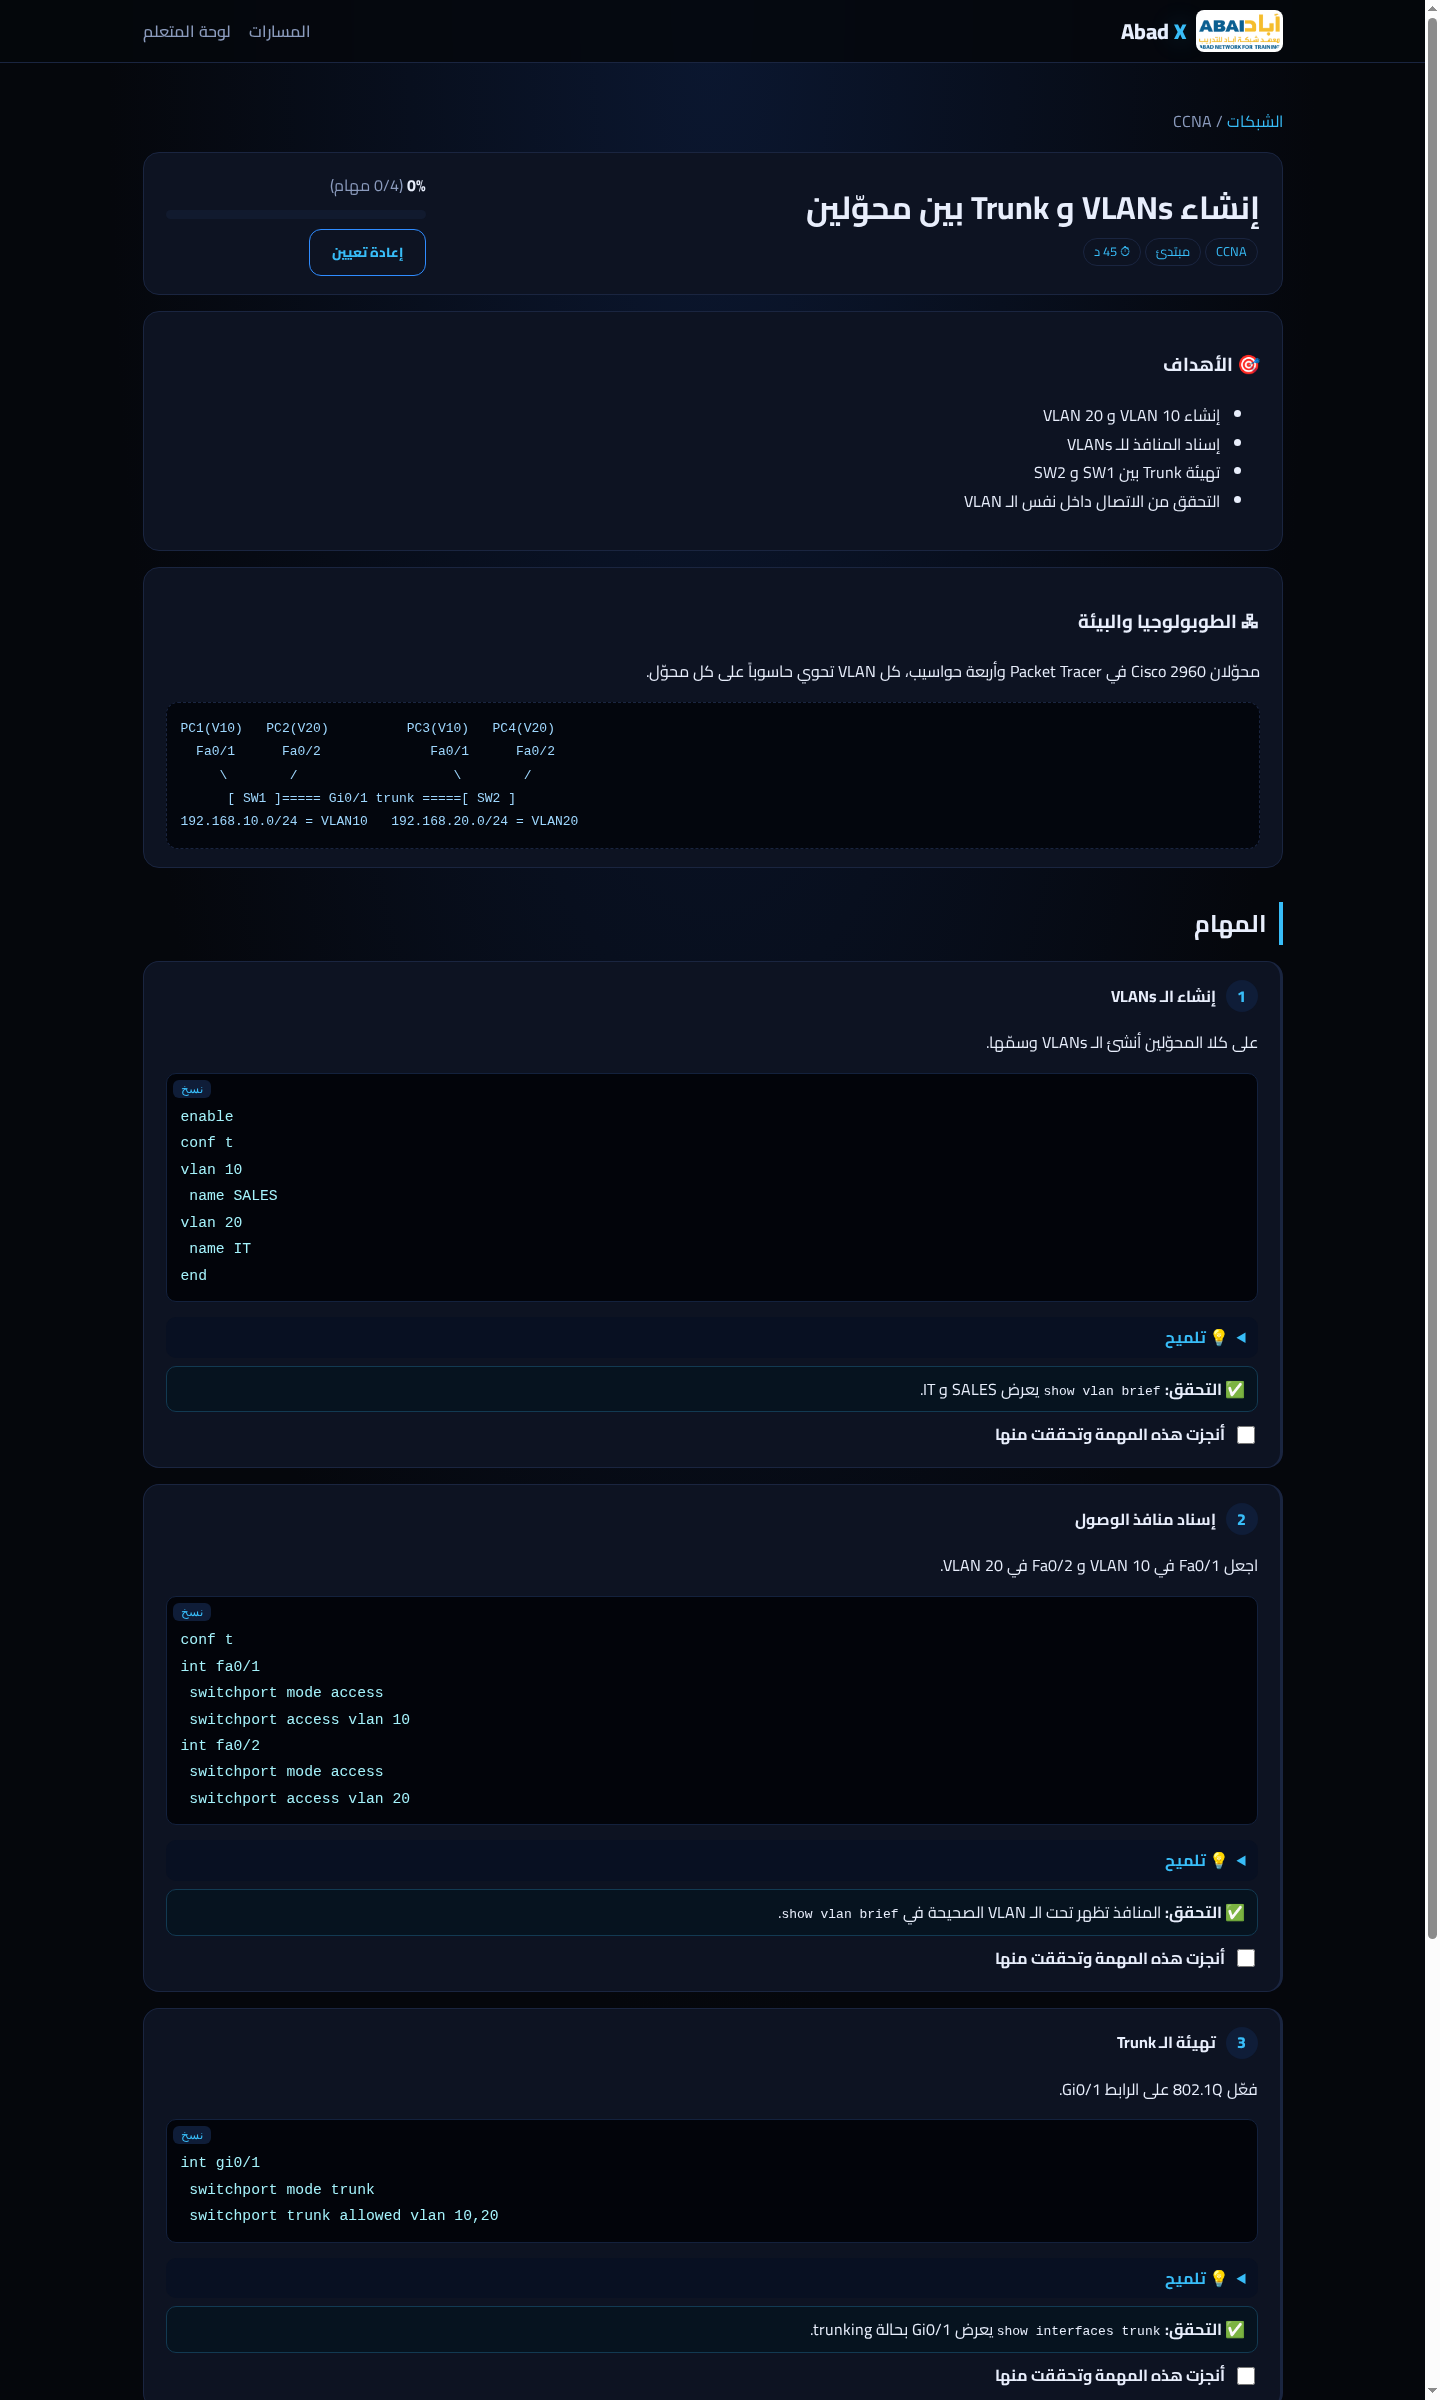
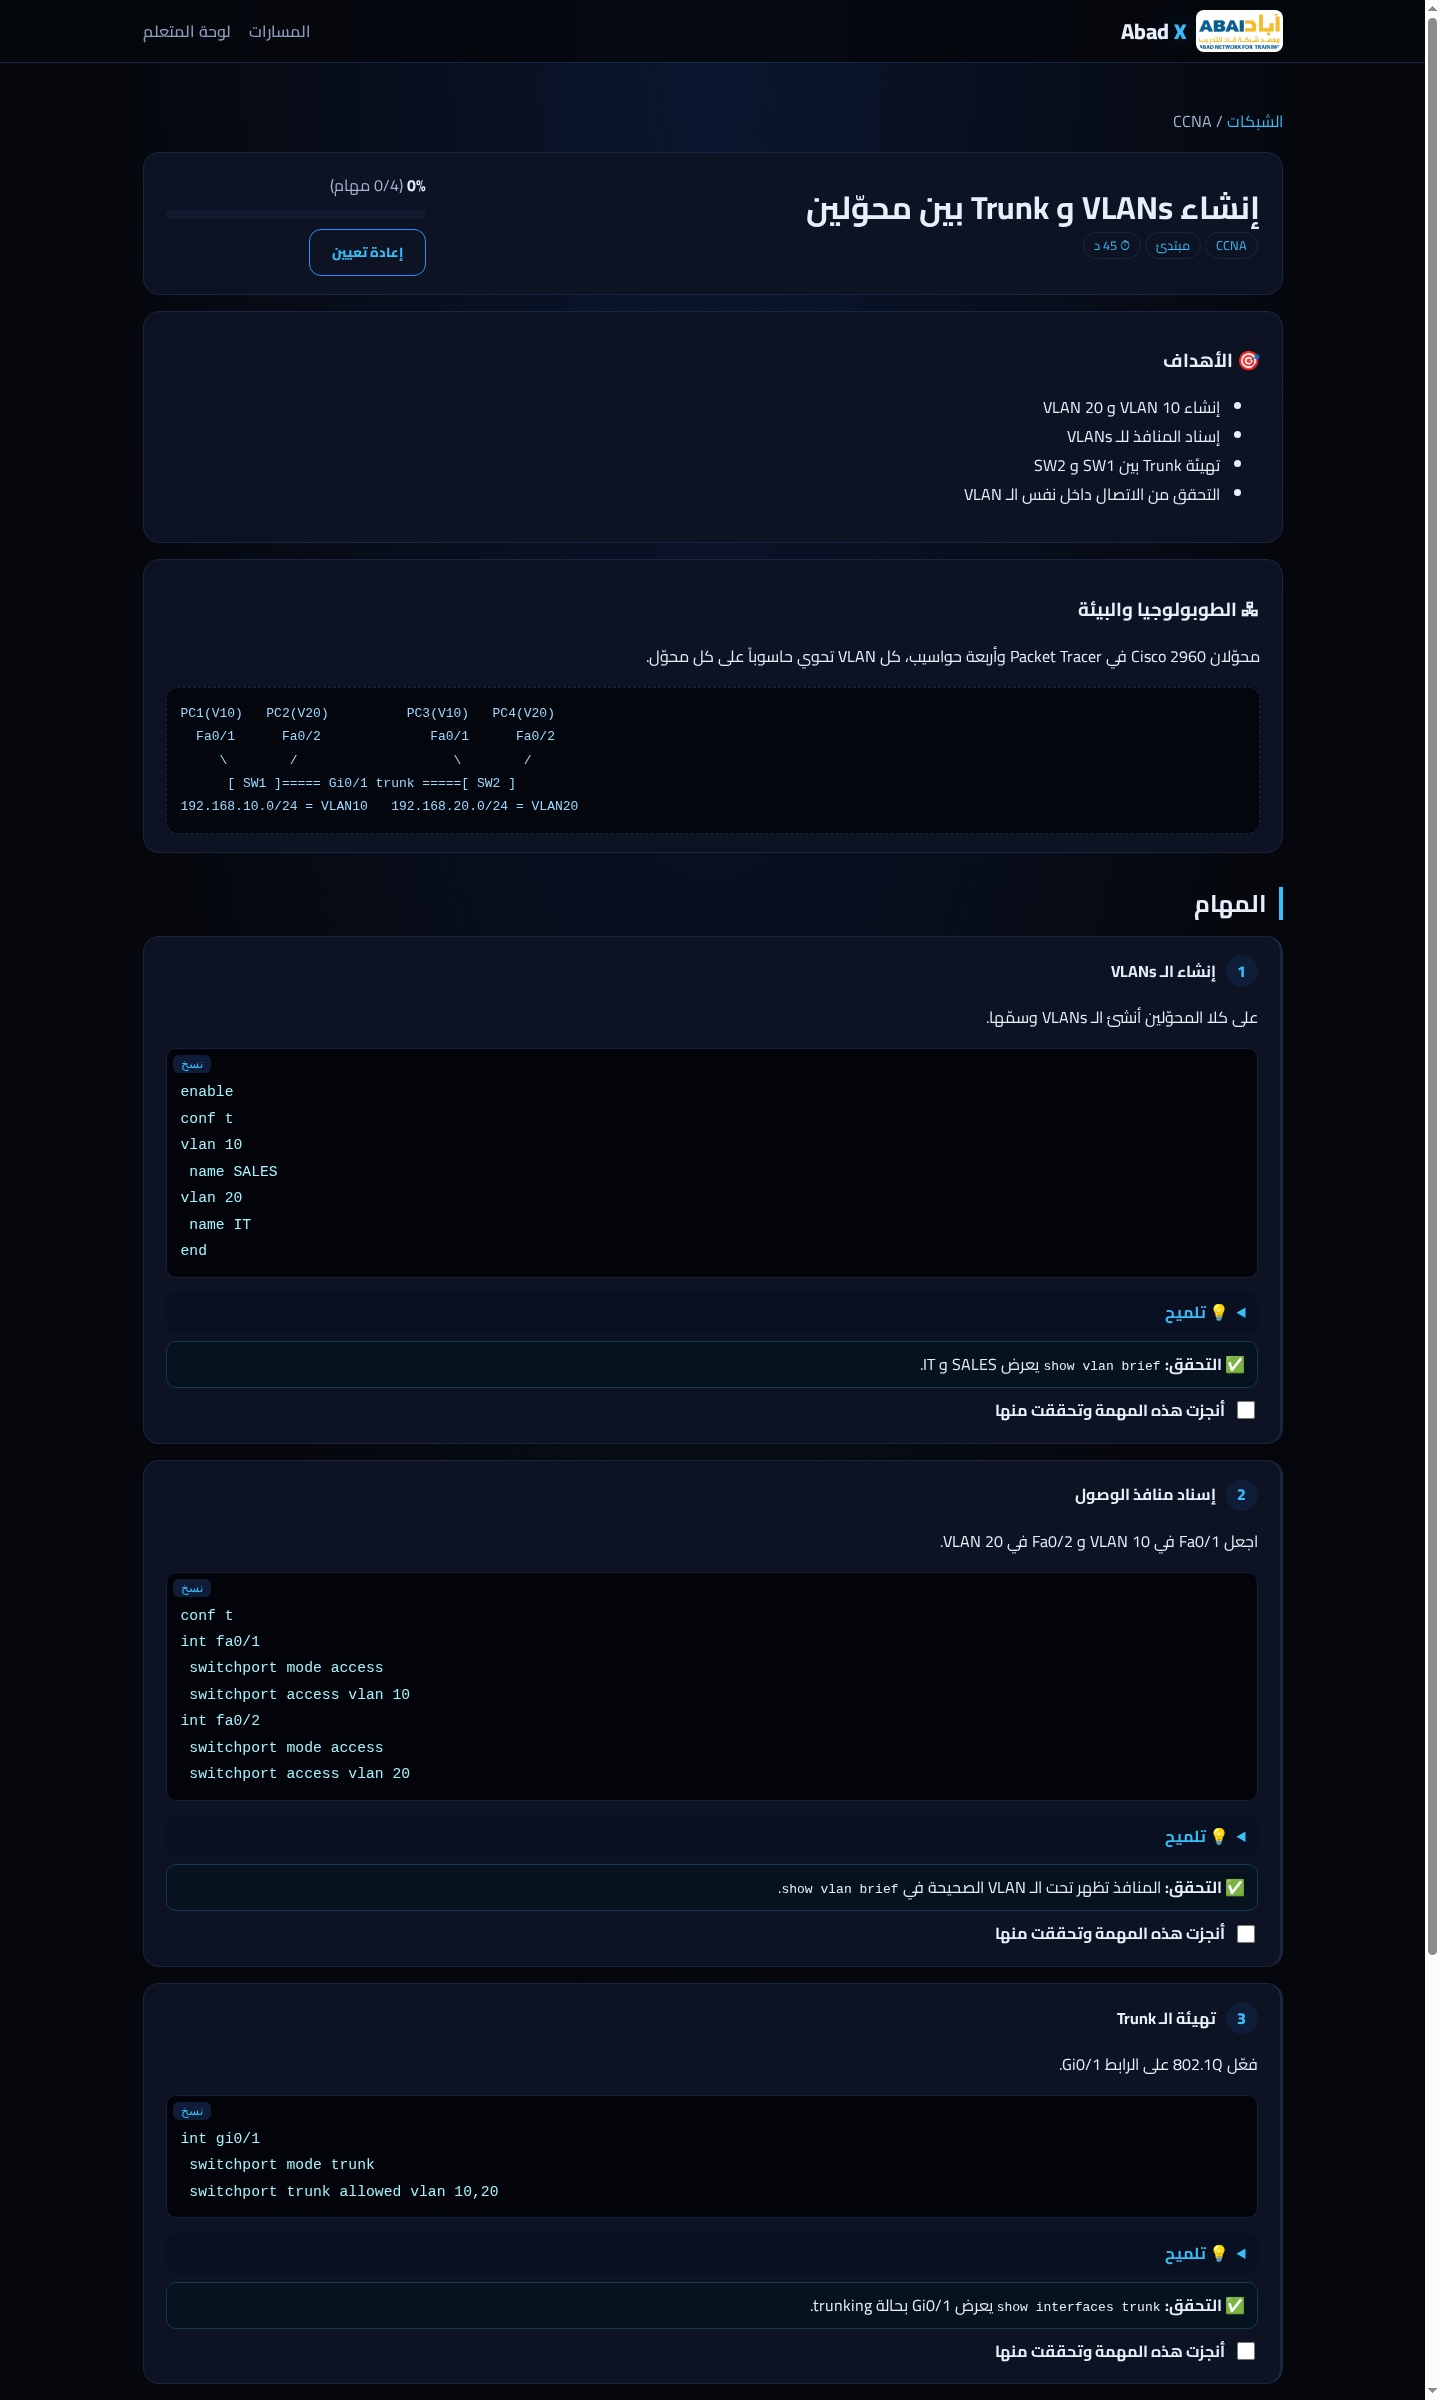
UX pass: a11y, focus, toasts, empty states, mobile, reduced motion

diff --git a/assets/app.js b/assets/app.js
@@ -3,22 +3,23 @@ const getP=()=>JSON.parse(localStorage.getItem(LS)||'{}');
 const setP=p=>localStorage.setItem(LS,JSON.stringify(p));
 const labPct=l=>{const d=(getP()[l.id]||[]).length;return Math.round(100*d/l.tasks.length)};
 const trackPct=t=>{const ls=LABS.filter(l=>l.track===t.id);return ls.length?Math.round(ls.reduce((a,l)=>a+labPct(l),0)/ls.length):0};
-const bar=p=>`<div class="bar"><i style="width:${p}%"></i></div>`;
+const bar=p=>`<div class="bar" role="progressbar" aria-valuemin="0" aria-valuemax="100" aria-valuenow="${p}"><i style="width:${p}%"></i></div>`;
 const esc=s=>s.replace(/&/g,'&amp;').replace(/</g,'&lt;');
-function shell(){document.body.insertAdjacentHTML('afterbegin',`<header><div class="nav"><a class="brand" href="index.html"><img src="assets/abad-logo.png" alt="ABAD"><span>Abad <b>X</b></span></a><span class="sp"></span><a class="l" href="index.html">المسارات</a><a class="l" href="dashboard.html">لوحة المتعلم</a></div></header>`);
+function toast(m,k='ok'){let t=document.querySelector('.toast');if(!t){t=document.createElement('div');t.className='toast';t.setAttribute('role','status');t.setAttribute('aria-live','polite');document.body.append(t)}t.textContent=m;t.className='toast show '+k;clearTimeout(t._h);t._h=setTimeout(()=>t.classList.remove('show'),2200)}
+function shell(){document.querySelector('main').id='main';document.body.insertAdjacentHTML('afterbegin','<a class="skip" href="#main">تخطَّ إلى المحتوى</a>');document.body.insertAdjacentHTML('afterbegin',`<header role="banner"><nav class="nav" aria-label="التنقل الرئيسي"><a class="brand" href="index.html"><img src="assets/abad-logo.png" alt="ABAD"><span>Abad <b>X</b></span></a><span class="sp"></span><a class="l" href="index.html">المسارات</a><a class="l" href="dashboard.html">لوحة المتعلم</a></nav></header>`);
 document.body.insertAdjacentHTML('beforeend',`<footer>Abad X — منصة المعامل التطبيقية · معهد شبكة آباد للتدريب، الرياض © 2026</footer>`)}
 function home(){const m=document.querySelector('main');m.innerHTML=`<section class="hero"><h1>معامل <span>Abad X</span> التطبيقية</h1><p>منصة تعلّم ذاتي بمعامل عملية خطوة بخطوة في الشبكات، لينكس، الأمن السيبراني، والسحابة والخوادم — من معهد شبكة آباد للتدريب.</p><a class="btn" href="#tracks">ابدأ التعلم</a> <a class="btn ghost" href="dashboard.html">تقدّمي</a></section><h2 class="sec" id="tracks">المسارات التعليمية</h2><div class="grid">${TRACKS.map(t=>`<a class="card" href="track.html?t=${t.id}" style="color:inherit"><div class="ico">${t.icon}</div><h3>${t.name}</h3><p class="mut">${t.desc}</p>${t.certs.map(c=>`<span class="tag">${c}</span>`).join('')}<p class="mut">${LABS.filter(l=>l.track===t.id).length} معامل · ${trackPct(t)}%</p>${bar(trackPct(t))}</a>`).join('')}</div>`}
 function track(){const t=TRACKS.find(x=>x.id===new URLSearchParams(location.search).get('t'))||TRACKS[0];document.title=t.name+' | Abad X';
-document.querySelector('main').innerHTML=`<section class="hero"><div class="ico">${t.icon}</div><h1>${t.name}</h1><p>${t.desc}</p>${t.certs.map(c=>`<span class="tag">${c}</span>`).join('')}${bar(trackPct(t))}</section><div class="grid">${LABS.filter(l=>l.track===t.id).map(l=>`<a class="card" href="lab.html?id=${l.id}" style="color:inherit"><span class="tag">${l.cert}</span><span class="tag">${l.level}</span><span class="tag">⏱ ${l.time}</span><h3>${l.title}</h3><p class="mut">${l.summary}</p>${bar(labPct(l))}<span class="mut">${labPct(l)}% مكتمل</span></a>`).join('')}</div>`}
+document.querySelector('main').innerHTML=`<section class="hero"><div class="ico">${t.icon}</div><h1>${t.name}</h1><p>${t.desc}</p>${t.certs.map(c=>`<span class="tag">${c}</span>`).join('')}${bar(trackPct(t))}</section>${LABS.some(l=>l.track===t.id)?'':'<div class="empty">لا توجد معامل في هذا المسار بعد — قريباً.</div>'}<div class="grid">${LABS.filter(l=>l.track===t.id).map(l=>`<a class="card" href="lab.html?id=${l.id}" style="color:inherit"><span class="tag">${l.cert}</span><span class="tag">${l.level}</span><span class="tag">⏱ ${l.time}</span><h3>${l.title}</h3><p class="mut">${l.summary}</p>${bar(labPct(l))}<span class="mut">${labPct(l)}% مكتمل</span></a>`).join('')}</div>`}
 function lab(){const l=LABS.find(x=>x.id===new URLSearchParams(location.search).get('id'))||LABS[0];const t=TRACKS.find(x=>x.id===l.track);document.title=l.title+' | Abad X';
 const m=document.querySelector('main');
 const render=()=>{const done=getP()[l.id]||[];m.innerHTML=`<p class="mut"><a href="track.html?t=${t.id}">${t.name}</a> / ${l.cert}</p><div class="box lab-head"><div><h1 style="margin:0">${l.title}</h1><span class="tag">${l.cert}</span><span class="tag">${l.level}</span><span class="tag">⏱ ${l.time}</span></div><div style="min-width:260px"><b id="pct">${labPct(l)}%</b> <span class="mut">(${done.length}/${l.tasks.length} مهام)</span>${bar(labPct(l))}<button class="btn ghost" id="reset">إعادة تعيين</button></div></div>
 <div class="box"><h3>🎯 الأهداف</h3><ul>${l.objectives.map(o=>`<li>${o}</li>`).join('')}</ul></div>
 <div class="box"><h3>🖧 الطوبولوجيا والبيئة</h3><p>${l.env}</p><div class="topo">${esc(l.topo)}</div></div>
-<h2 class="sec">المهام</h2>${l.tasks.map((k,i)=>`<div class="box task ${done.includes(i)?'done':''}"><h4><span class="num">${i+1}</span>${k.t}</h4><p>${k.d}</p><pre class="cmd"><button class="copy">نسخ</button>${esc(k.c)}</pre><details><summary>💡 تلميح</summary>${k.h}</details><div class="verify"><b>✅ التحقق:</b> ${k.v}</div><label class="chk"><input type="checkbox" data-i="${i}" ${done.includes(i)?'checked':''}> أنجزت هذه المهمة وتحققت منها</label></div>`).join('')}
+<h2 class="sec">المهام</h2>${l.tasks.map((k,i)=>`<div class="box task ${done.includes(i)?'done':''}"><h4><span class="num">${i+1}</span>${k.t}</h4><p>${k.d}</p><pre class="cmd"><button class="copy" aria-label="نسخ الأوامر">نسخ</button>${esc(k.c)}</pre><details><summary>💡 تلميح</summary>${k.h}</details><div class="verify"><b>✅ التحقق:</b> ${k.v}</div><label class="chk"><input type="checkbox" data-i="${i}" ${done.includes(i)?'checked':''}> أنجزت هذه المهمة وتحققت منها</label></div>`).join('')}
 ${labPct(l)===100?'<div class="box" style="border-color:var(--neon);box-shadow:var(--glow)"><h3>🏆 أحسنت! أكملت المعمل</h3></div>':''}`;
-m.querySelectorAll('input[data-i]').forEach(c=>c.onchange=()=>{const p=getP(),s=new Set(p[l.id]||[]);c.checked?s.add(+c.dataset.i):s.delete(+c.dataset.i);p[l.id]=[...s];setP(p);render()});
-m.querySelectorAll('.copy').forEach(b=>b.onclick=()=>{navigator.clipboard?.writeText(b.parentElement.textContent.replace('نسخ','').trim());b.textContent='تم ✓'});
-document.getElementById('reset').onclick=()=>{const p=getP();delete p[l.id];setP(p);render()}};render()}
+m.querySelectorAll('input[data-i]').forEach(c=>c.onchange=()=>{const p=getP(),s=new Set(p[l.id]||[]);c.checked?s.add(+c.dataset.i):s.delete(+c.dataset.i);p[l.id]=[...s];setP(p);render();const n=labPct(l);toast(n===100?'🏆 أكملت المعمل بالكامل!':c.checked?`✓ تم حفظ التقدم (${n}%)`:'تم إلغاء إنجاز المهمة','ok');m.querySelector(`input[data-i="${c.dataset.i}"]`).focus()});
+m.querySelectorAll('.copy').forEach(b=>b.onclick=()=>{navigator.clipboard?.writeText(b.parentElement.textContent.replace('نسخ','').trim());b.textContent='تم ✓';toast('تم نسخ الأوامر');setTimeout(()=>b.textContent='نسخ',1500)});
+document.getElementById('reset').onclick=()=>{if(!confirm('إعادة تعيين تقدّم هذا المعمل؟'))return;toast('تمت إعادة التعيين','warn');const p=getP();delete p[l.id];setP(p);render()}};render()}
 function dash(){const all=LABS.length,comp=LABS.filter(l=>labPct(l)===100).length,tot=Math.round(LABS.reduce((a,l)=>a+labPct(l),0)/all);
-document.querySelector('main').innerHTML=`<section class="hero"><h1>لوحة <span>المتعلم</span></h1><p>تقدّمك محفوظ محلياً في هذا المتصفح.</p><div class="grid"><div class="card"><h3>${tot}%</h3><span class="mut">التقدم الكلي</span>${bar(tot)}</div><div class="card"><h3>${comp} / ${all}</h3><span class="mut">معامل مكتملة</span></div></div></section><div class="grid">${TRACKS.map(t=>`<div class="card"><h3>${t.icon} ${t.name}</h3>${bar(trackPct(t))}<table>${LABS.filter(l=>l.track===t.id).map(l=>`<tr><td><a href="lab.html?id=${l.id}">${l.title}</a></td><td>${labPct(l)}%</td></tr>`).join('')}</table></div>`).join('')}</div><p><button class="btn ghost" onclick="if(confirm('مسح كل التقدم؟')){localStorage.removeItem(LS);location.reload()}">مسح كل التقدم</button></p>`}
+document.querySelector('main').innerHTML=`<section class="hero"><h1>لوحة <span>المتعلم</span></h1><p>تقدّمك محفوظ محلياً في هذا المتصفح.</p>${tot===0?'<div class="empty" style="margin:16px 0">لم تبدأ أي معمل بعد. <a href="index.html#tracks">اختر مساراً وابدأ أول معمل ←</a></div>':''}<div class="grid"><div class="card"><h3>${tot}%</h3><span class="mut">التقدم الكلي</span>${bar(tot)}</div><div class="card"><h3>${comp} / ${all}</h3><span class="mut">معامل مكتملة</span></div></div></section><div class="grid">${TRACKS.map(t=>`<div class="card"><h3>${t.icon} ${t.name}</h3>${bar(trackPct(t))}<table>${LABS.filter(l=>l.track===t.id).map(l=>`<tr><td><a href="lab.html?id=${l.id}">${l.title}</a></td><td>${labPct(l)}%</td></tr>`).join('')}</table></div>`).join('')}</div><p><button class="btn ghost" onclick="if(confirm('مسح كل التقدم؟')){localStorage.removeItem(LS);location.reload()}" ${tot?'':'disabled'}>مسح كل التقدم</button></p>`}

diff --git a/assets/style.css b/assets/style.css
@@ -30,3 +30,16 @@ details{margin:8px 0;background:#081022;border-radius:10px;padding:6px 12px}summ
 label.chk{display:flex;gap:8px;align-items:center;cursor:pointer;margin-top:8px;font-weight:700}input[type=checkbox]{accent-color:var(--neon);width:18px;height:18px}
 footer{text-align:center;color:var(--mut);padding:24px;border-top:1px solid var(--line)}
 table{width:100%;border-collapse:collapse}td,th{padding:10px;border-bottom:1px solid var(--line);text-align:right}
+/* UX pass */
+:focus-visible{outline:2px solid var(--neon);outline-offset:3px;border-radius:8px}
+.skip{position:absolute;right:-999px;top:8px;background:var(--neon);color:#001022;padding:6px 12px;border-radius:8px;z-index:9}.skip:focus{right:12px}
+.mut{color:#a3b2d1}
+h1,h2,h3{line-height:1.4}
+.toast{position:fixed;bottom:22px;left:50%;transform:translate(-50%,20px);opacity:0;background:#0d1a33;border:1px solid var(--blue);color:var(--txt);padding:10px 20px;border-radius:12px;box-shadow:var(--glow);transition:.25s;z-index:20;pointer-events:none}
+.toast.show{opacity:1;transform:translate(-50%,0)}.toast.ok{border-color:#22d3ee}.toast.warn{border-color:#f87171}
+.empty{text-align:center;padding:40px;border:1px dashed var(--line);border-radius:18px;color:#a3b2d1}
+.btn:hover{filter:brightness(1.1)}.btn:active{transform:scale(.98)}
+.task{transition:border-color .25s,box-shadow .25s}
+@media (max-width:640px){.hero{padding:30px 18px}.hero h1{font-size:1.7rem}.nav{gap:10px;padding:8px 14px}.brand img{height:34px}.nav a.l{font-size:.9rem}.box{padding:14px}main{padding:18px 14px 40px}.lab-head>div{min-width:0!important;width:100%}}
+@media (prefers-reduced-motion:reduce){*{transition:none!important;scroll-behavior:auto}}
+.btn:disabled{opacity:.4;cursor:not-allowed;filter:none}
